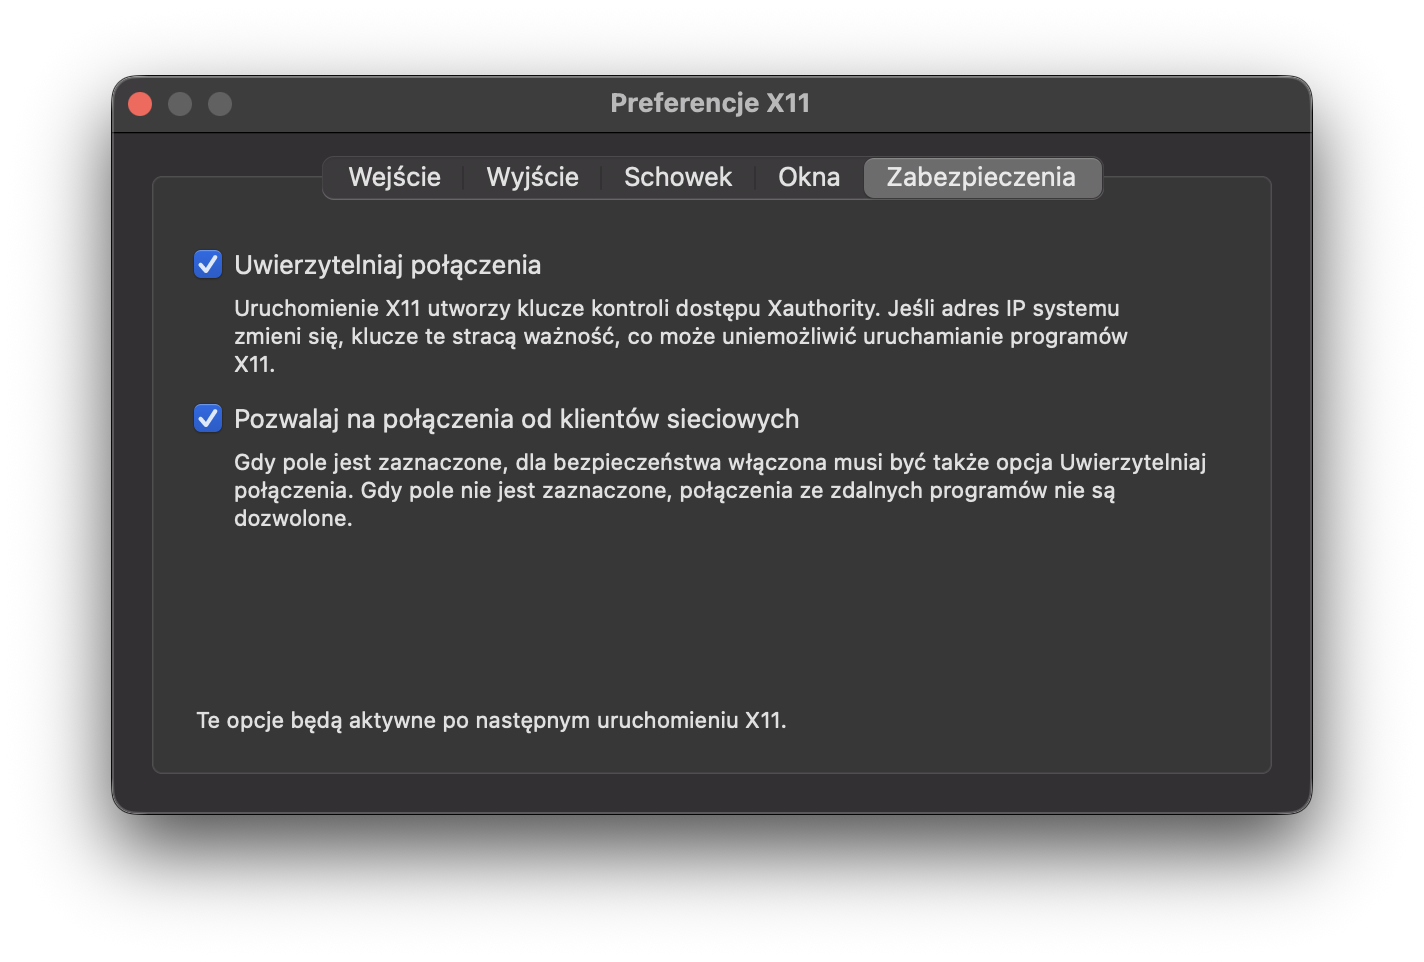
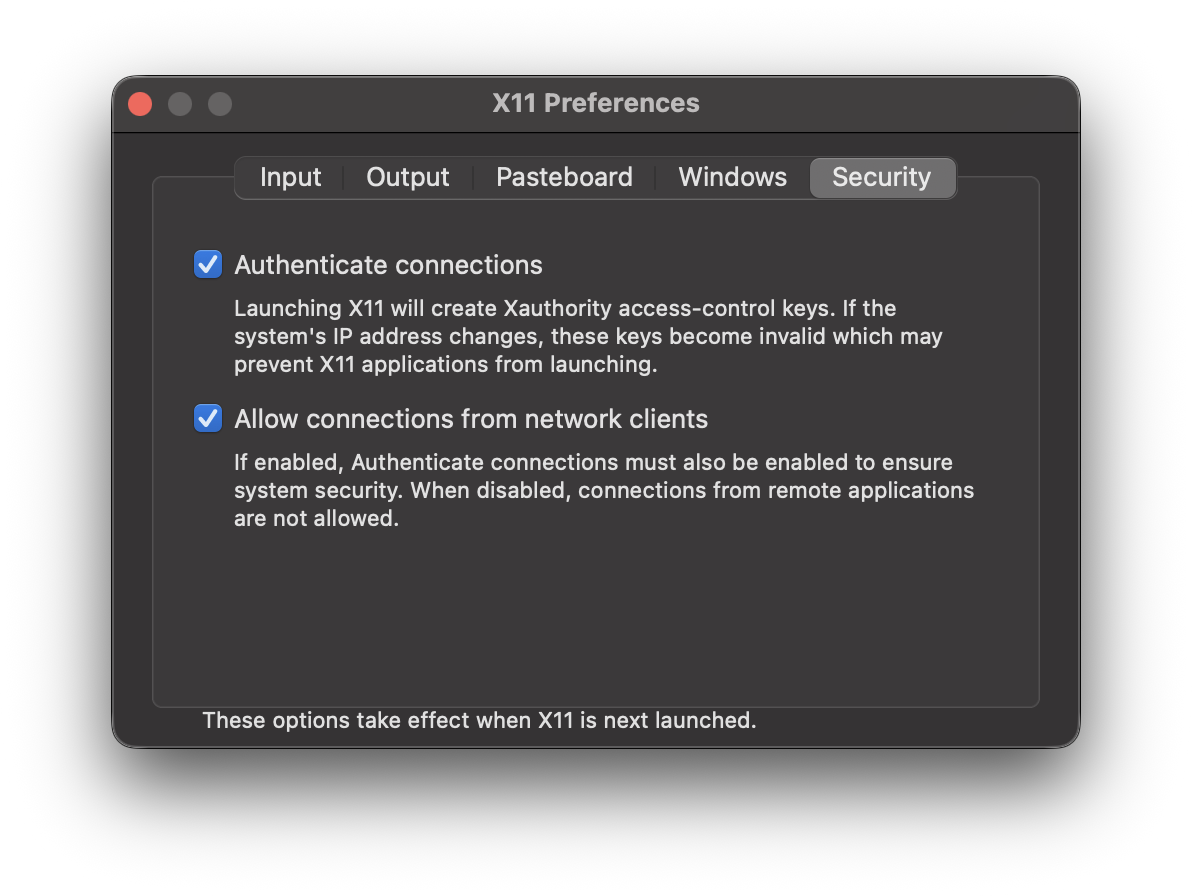
Add images and translation to English language

Changed region(s): [[0.0621, 0.0625, 0.9312, 0.9062], [0.1242, 0.25, 0.8691, 0.5938]]

diff --git a/content/guides/questa-and-vivado-on-macos/index.md b/content/guides/questa-and-vivado-on-macos/index.md
@@ -1,6 +1,193 @@
 +++
-title = 'Setup Questa and Vivado on MacOS'
+title = 'Setup QuestaSim and Vivado 2025.2 on macOS'
 date = 2026-08-19T20:56:41+02:00
 draft = true
 tags = ["questasim", "vivado", "macos", "apple", "amd", "siemens", "altera", "orbstack", "enterprise-linux"]
 +++
+
+1. Setting up the environment for EDA tools on macOS
+
+You need to install OrbStack, which is currently the best way to use virtual Linux machines.
+I personally recommend choosing a distribution from the RHEL family, as they provide the highest compatibility with (legacy) tools for ASIC/FPGA work. My choice fell on Rocky Linux.
+You must choose the x86_64 architecture, as every program in this technical field is written with this architecture in mind. OrbStack uses hardware Rosetta for emulation, so the performance boost will be significant compared to Docker containers.
+
+![Creating a virtual machine using OrbStack](images/orbstack-rocky-x86.png)
+
+Dependencies that are needed:
+
+```sh
+# Rocky VM
+$ sudo dnf install -y epel-release
+$ sudo dnf install -y openssh-server xorg-x11-xauth xclock libX11 libXrender libXtst libXi make gcc tar gzip
+```
+(```openssh-server``` may seem surprising, but the explanation will appear below)
+
+2. Installing and initial configuration of XQuartz
+
+XQuartz is the best way to launch windows using the X11 protocol from e.g. remote connections.
+
+The simplest step in this guide, we download XQuartz from e.g. Homebrew:
+
+```sh
+# macOS
+$ brew install --cask xquartz
+```
+
+In its options, you need to enable the following:
+
+![XQuartz window with SSH settings](images/xquartz-setup.png)
+
+3. Downloading QuestaSim and Vivado Design Suite installers from Altera and AMD websites
+
+For hobbyist use, I use Questa FPGA Starter Edition (hence the installer for this version will be visible in the guide) and Vivado in not the latest version - 2025.2 ([reason here](https://www.reddit.com/r/FPGA/comments/1thstyc/vivado_20261_basic_limited_debugging_xsim/?show=original)) tl;dr AMD decided that the free version will be more cut down than before - originally they even planned not to release it for Linux.
+
+No need to explain too much here, so I'll tell an anecdote. Getting a license, since Altera fully adopted the SSLC system, is easier than a year ago. I remember having to wait a month for Intel to let me create an account - unfortunately, I asked for it before Christmas. Then it turned out that 2FA creation was necessary - fortunately, this only required 15 minutes of email consultation with no-reply.
+
+*IMPORTANT*: On the Altera SSLC website, you must provide the MAC ADDRESS VISIBLE in the OrbStack VM during registration:
+
+```sh
+# Rocky VM
+$ ip link
+...
+2: eth0@if8: [...]
+    link/ether xx:xx:xx:xx:xx:xx <----- this should be your MAC address to provide on the Altera website
+```
+
+The rest looks like obtaining the .dat license file from the Altera website. [https://www.youtube.com/watch?v=s9sJEv9YApY](https://www.youtube.com/watch?v=s9sJEv9YApY)
+
+Uploading files to OrbStack machines is ridiculously simple. OrbStack attaches a network drive with file systems for each machine, which we can access from Finder (which is not so obvious).
+
+![OrbStack remote file system](images/orbstack-nfs.png)
+
+Access to the file system of each created machine is possible even when they are turned off. Only turning off OrbStack deprives us of the ability to browse conveniently.
+
+4. SSH server configuration
+
+OrbStack provides a built-in SSH server for connecting to the VM at the macOS level. The problem is that it does not support ```X11Forwarding```. Hence the need to start the ```openssh-server``` downloaded earlier:
+
+```sh
+$ systemctl start sshd
+```
+
+It is worth disabling the forwarding of local networks of VMs outside our Mac in OrbStack:
+
+![Disabling VM access from local network](images/orbstack-lan.png)
+
+You must set a password for your user using:
+```sh
+# Rocky VM
+$ sudo passwd
+```
+
+After these steps, you should be able to connect to the VM as follows:
+```sh
+# macOS
+$ ssh -i ~/.orbstack/ssh/id_ed25519 -Y <user>@<machine_name>.orb.local
+```
+```user``` is the username you created on the VM, and ```machine_name``` is the VM name given in OrbStack.
+
+5. Installing QuestaSim
+
+The QuestaSim graphical installer uses CPU instructions that are not translated by Rosetta, hence we get this error:
+```Illegal instruction```
+(sorry, we don't get anything else)
+
+We can install without GUI (probably the best option, although the wall of text for the license, which you have to click through with Enter, may discourage you) by typing:
+```sh
+# Rocky VM
+$ ./<questa_installer> --mode text
+```
+
+or at all costs run the Qt installer. To do this, you need to disable Rosetta during the Questa installation:
+```sh
+# macOS
+$ orb config set rosetta false
+$ orb stop
+$ orb start
+```
+
+I used the second option and know that it definitely works. After installation, you can restore Rosetta.
+
+QuestaSim must be run with the ```SALT_LICENSE_SERVER``` parameter, if you have a file, provide the absolute path to it.
+
+Example command line launching Questa:
+```sh
+# Rocky VM
+$ SALT_LICENSE_SERVER=/home/tendan/LR-178485_License.dat ~/altera/25.1std/questa_fse/bin/vsim -gui
+```
+
+(insert Questa screenshot here)
+
+6. Installing Vivado
+
+There's no great philosophy here, we run the Vivado installer (I always choose Vitis), I didn't install Xilinx USB Cable Drivers (TBA if it works through OrbStack).
+*ATTENTION!* The installer on the splash screen may flicker violently, and itself is mostly white colors. After moving to the actual installation, everything returns to normal.
+
+7. Fixing Vivado
+
+It would be too beautiful if Vivado worked flawlessly right after installation, right? The first thing that will catch your attention will most likely be the interface, which lags mercilessly.
+
+In this situation, you need to create an SSH session for Vivado with the following parameters:
+
+```sh
+$ ssh [[..]] -C <user>@<vm-name>.orb.local
+```
+```[[..]]``` simply means the rest of the parameters that are usually used (including e.g. ```-Y```).
+
+In the VM shell configuration file (most likely .bashrc), you need to add:
+```sh
+export _JAVA_OPTIONS="-Dsun.java2d.xrender=false"
+```
+or provide it every time Vivado is launched.
+
+The next problem you will face is trying to run synthesis or worse, implementation. Both of these things end with Vivado crashing, although here's a curiosity - for small projects (like e.g. demo multiplexer) there is a good chance that synthesis will succeed before the program crashes. I wouldn't count on the implementation result in such circumstances.
+
+I would like to thank the author of this [project](https://github.com/filmil/vivado-docker) on GitHub for preparing udev_stub.c, which needs to be compiled and thrown into the directory that will be seen by Vivado:
+```sh
+# Rocky VM
+gcc udev_stub.c -shared -fPIC -o udev_stub.so
+sudo mv udev_stub.so /opt/udev_stub.so
+```
+
+Unfortunately, Vivado is so demanding that it won't just accept any library. You must provide names that it knows well. Hence we replace its reference for libudev without touching system libraries:
+```sh
+# Rocky VM
+$ mkdir -p ~/fakelib
+$ cp /opt/udev_stub.so ~/fakelib/libudev.so.1
+$ ln -sf libudev.so.1 ~/fakelib/libudev.so
+export LD_LIBRARY_PATH=~/fakelib:$LD_LIBRARY_PATH
+```
+
+(insert Vivado screenshot here)
+
+8. Using Automator for Launchpad icons for Questa and Vivado
+
+At the very end, I left a bonus in the form of launching both programs from macOS. The only condition is of course the OrbStack virtual machine running.
+
+In Automator, you need to create a new Application. Both apps simply run a shell script.
+
+For Questa:
+```zsh
+# Questa.app
+open -a XQuartz
+
+if [ -z "$DISPLAY" ]; then
+    export DISPLAY=$(ls -t /private/tmp/com.apple.launchd/*/org.xquartz:0 2>/dev/null | head -n 1)
+fi
+
+/usr/bin/ssh -i ~/.orbstack/ssh/id_ed25519 -Y <user>@<vm_name>.orb.local "SALT_LICENSE_SERVER=<path_to_license_file.dat> <path_to_vsim> -gui"
+```
+
+For Vivado:
+```zsh
+# Vivado.app
+open -a XQuartz
+
+if [ -z "$DISPLAY" ]; then
+    export DISPLAY=$(ls -t /private/tmp/com.apple.launchd/*/org.xquartz:0 2>/dev/null | head -n 1)
+fi
+
+/usr/bin/ssh -i ~/.orbstack/ssh/id_ed25519 -Y -C <user>@<vm_name>.orb.local "export LD_LIBRARY_PATH=~/fakelib:$LD_LIBRARY_PATH ; export _JAVA_OPTIONS=\"-Dsun.java2d.xrender=false\" ; source <path_to_settings64.sh> && <path_to_vivado>"
+```
+
+To complete the whole thing, you can add icons for the apps created in this way. Just go to "Get Info" for a specific one, click on its icon (by default the Automator robot), and paste the target one, copied earlier from the clipboard.

diff --git a/content/guides/questa-and-vivado-on-macos/index.pl.md b/content/guides/questa-and-vivado-on-macos/index.pl.md
@@ -1,16 +1,17 @@
 +++
-title = 'Setup Questa and Vivado on MacOS'
+title = 'Konfiguracja QuestaSim oraz Vivado 2025.2 na macOS'
 date = 2026-08-19T20:56:41+02:00
 draft = true
 tags = ["questasim", "vivado", "macos", "apple", "amd", "siemens", "altera", "orbstack", "enterprise-linux"]
 +++
 
 1. Przygotowanie środowiska pod narzędzia EDA na macOS
+
 Należy zainstalować OrbStack'a, aktualnie jest on najlepszym sposobem na korzystanie z maszyn wirtuanych na Linuxie.
 Osobiście polecam wybranie dystrybucji z rodziny RHEL, gdyż zapewniają one najwyższą kompatybilność z (leciwymi) narzędziami do pracy pod ASIC/FPGA. Mój wybór padł na Rocky Linux.
 Koniecznie należy wybrać architekturę x86_64, jako że każdy program w tej dziedzinie technicznej jest z myślą o tej architekturze pisany. OrbStack wykorzystuje sprzętową Rosettę do emulacji, więc skok wydajności będzie mocny w porównaniu z kontenerami Dockerowymi.
 
-![Creating VM with OrbStack](images/orbstack-rocky-x86.png)
+![Tworzenie wirtualnej maszyny za pomocą OrbStacka](images/orbstack-rocky-x86.png)
 
 Zależności jakie są potrzebne:
 
@@ -34,9 +35,10 @@ $ brew install --cask xquartz
 
 W jego opcjach należy włączyć poniższe:
 
-(tu screenshot z ustawień XQuartz związanymi z połączeniem SSH)
+![Okno XQuartz z ustawieniami pod SSH](images/xquartz-setup.pl.png)
 
 3. Pobranie instalatorów QuestaSim i Vivado Design Suite ze stron Altery i AMD
+
 Na hobbystyczny użytek korzystam z Questa FPGA Starter Edition (stąd w poradniku będzie widoczny instalator do tejże wersji) oraz Vivado w nienajnowszej wersji - 2025.2 ([tutaj powód](https://www.reddit.com/r/FPGA/comments/1thstyc/vivado_20261_basic_limited_debugging_xsim/?show=original)) tl;dr AMD postanowiło, że bezpłatna wersja będzie bardziej okrojona niż dotychczas - pierwotnie to nawet planowali nie wypuszczać jej na Linux'a.
 
 Nie trzeba tu za bardzo tłumaczyć, więc opowiem anegdotkę. Załatwienie licencji, odkąd Altera objęła system SSLC całkowicie, jest łatwiejsze niż jeszcze rok temu. Pamiętam jak musiałem czekać miesiąc na to, aż Intel pozwoli mi założyć konto - na swoje nieszczęście poprosiłem o to przed Świętami Bożego Narodzenia. Potem się okazało, że konieczne jest utworzenie 2FA - na szczęście tu wystarczyło jedynie 15 minut konsultacji mailowej z no-reply.
@@ -55,11 +57,12 @@ Reszta wygląda tak jak przy pozyskiwaniu pliku z licencją .dat ze strony Alter
 
 Wrzucanie plików na maszyny OrbStacka jest banalnie proste. OrbStack załącza dysk sieciowy z systemami plików dla każdej maszyny, do którego dostęp mamy chociażby z poziomu Findera (co nie jest wcale takie oczywiste). 
 
-(tutaj wrzuć zdjęcie z NFS OrbStacka)
+![Zdalny system plików OrbStacka](images/orbstack-nfs.png)
 
 Dostęp do systemu plików każdej z utworzonych maszyn jest możliwy nawet gdy są wyłączone. Dopiero wyłączenie OrbStacka pozbawia nas możliwości wygodnego przeglądania.
 
 4. Konfiguracja serwera SSH
+
 OrbStack zapewnia wbudowany serwer SSH do łączenia się z VM-ką na poziomie macOS. Problem polega na tym, że nie wspiera on ```X11Forwarding```-u. Stąd konieczne jest uruchomienie ```openssh-server``` pobranego wcześniej:
 
 ```sh
@@ -68,7 +71,7 @@ $ systemctl start sshd
 
 Warto w OrbStacku wyłączyć przekazywanie sieci lokalnych VM-ów poza naszego Maka:
 
-(tu wstaw screenshot ze stosowną opcją w OrbStacku)
+![Wyłączanie dostępu do VM z sieci lokalnej](images/orbstack-lan.png)
 
 Koniecznie należy ustawić hasło dla naszego użytkownika za pomocą:
 ```sh
@@ -84,6 +87,7 @@ $ ssh -i ~/.orbstack/ssh/id_ed25519 -Y <user>@<machine_name>.orb.local
 ```user``` to nazwa użytkownika jakiego utworzyliśmy na VM-ce, a ```machine_name``` to nazwa VM-ki podana w OrbStacku.
 
 5. Instalowanie QuestaSim
+
 Instalator QuestaSim w wersji graficznej używa instrukcji procesora, które akurat przez Rosettę nie są tłumaczone, stąd wita nas taki błąd:
 ```Illegal instruction```
 (serio, niczego innego nie dostajemy)
@@ -111,6 +115,8 @@ Przykładowy command line uruchamiający Questę:
 # Rocky VM
 $ SALT_LICENSE_SERVER=/home/tendan/LR-178485_License.dat ~/altera/25.1std/questa_fse/bin/vsim -gui
 ```
+
+(tu wstaw zdjęcie z Questy)
 
 6. Instalacja Vivado
 
@@ -151,6 +157,8 @@ $ cp /opt/udev_stub.so ~/fakelib/libudev.so.1
 $ ln -sf libudev.so.1 ~/fakelib/libudev.so
 export LD_LIBRARY_PATH=~/fakelib:$LD_LIBRARY_PATH
 ```
+
+(tu wstaw zdjęcie z Vivado)
 
 8. Wykorzystanie Automatora do ikonek w Launchpadzie pod Questę i Vivado
 

diff --git a/content/guides/gta-iv-linux-setup.pl.md b/content/guides/gta-iv-linux-setup.pl.md
@@ -1,5 +1,5 @@
 +++
-title = 'GTA IV Installation on Linux Guide'
+title = 'Instalacja GTA IV na Linuxie'
 date = 2024-08-03T23:40:03+02:00
 difficulty = 'Łatwy'
 +++
